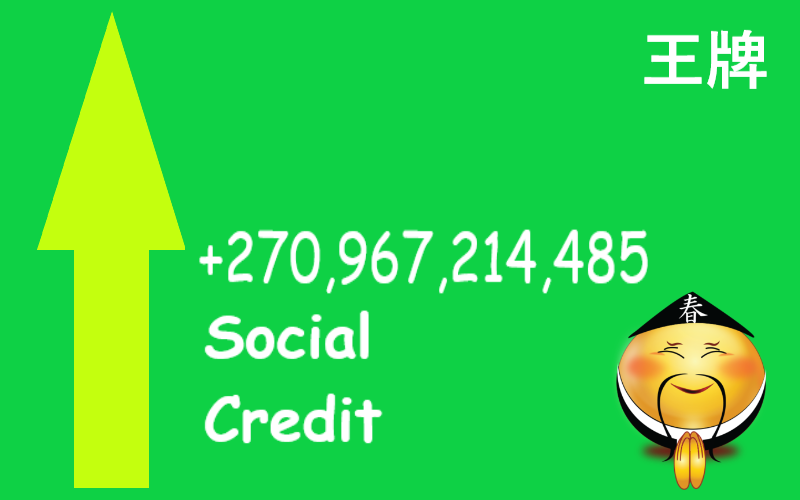
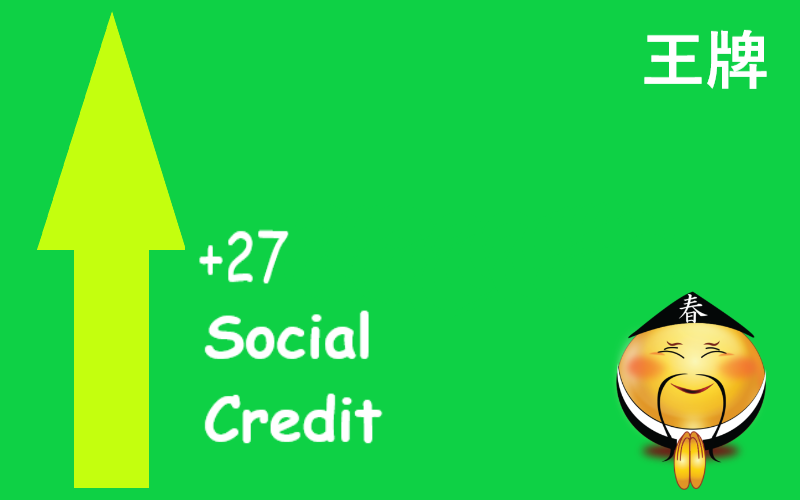
Added loss and execution date

Changed region(s): [[0.3438, 0.45, 0.8125, 0.6]]

diff --git a/app.js b/app.js
@@ -1,10 +1,10 @@
 let num1 = 0;
 let num2 = 0;
-let ok = 0;
-let nk = 0;
-let sc = 0;
+let ok = 0; //oll korrect
+let nk = 0; //not
+let sc = 0; //social credit score
 let correctAns = 0;
-function newRiddle() {
+function newRiddle() { //Creates new multiplication riddle
     num1 = Math.round(Math.random()*10);
     num2 = Math.round(Math.random()*10);
     document.getElementById("riddle").innerHTML = num1 + " x " + num2;
@@ -12,27 +12,44 @@ function newRiddle() {
 }
 newRiddle();
 function checkAnswer() {
-    document.getElementById("image").src = "";
+    document.getElementById("image").src = "zhongxina.png";
     var ans = document.querySelector(".input").value;
-    if (ans == correctAns) {
-        console.log("Correct answer");
+    var image = document.getElementById("image");
+    if (ans == correctAns) { //If answer is correct:
         ok += 1;
-        sc += 270.976214485;
-        console.log(num1 + " times " + num2 + " equals " + (num1*num2));
-        var image = document.getElementById("image");
+        sc += 27;
         image.src = "scplus.png"
+        console.log("Correct");
+        console.log(num1 + " times " + num2 + " equals " + (num1*num2));
+        newRiddle();
     }
     else {
         nk += 1;
-        sc -= 100;
-        console.log("Wrong answer");
-        var image = document.getElementById("image");
-        image.src = "scminus.jpg"
+        sc -= 30;
+        if (sc < 0) { //If answer is wrong & social credit < 0:
+        document.getElementById("riddle").innerHTML = "You lost, execution date: 老干嘛";
+            document.getElementById("label").style.display = "none";
+            document.getElementById("input").style.display = "none";
+            document.getElementById("button").style.display = "none";
+            document.getElementById("header").style.backgroundColor = "red";
+            document.getElementById("sexHåla").style.backgroundColor = "black";
+            document.getElementById("body").style.backgroundColor = "grey";
+            image.src = "exedate.jpg"
+        }
+        else { //If answer is just wrong:
+            image.src = "scminus.png"
+            console.log("Wrong answer");
+            newRiddle()
+        }
     }
-    newRiddle();
-    document.getElementById("kd").innerHTML = "K/D = " + (Math.round((ok/nk) * 100) / 100);
+    if (nk == 0) { //If-statement to prevent 'K/D = infinity'
+        document.getElementById("kd").innerHTML = "K/D = " + ok;
+    }
+    else {
+        document.getElementById("kd").innerHTML = "K/D = " + (Math.round((ok/nk) * 100) / 100);
+    }
     document.getElementById("ok").innerHTML = "Correct answers = " + ok;
     document.getElementById("nk").innerHTML = "Wrong answers = " + nk;
-    document.getElementById("sc").innerHTML = "Social credit = " + Math.round(sc*1000000000);
+    document.getElementById("sc").innerHTML = "Social credit = " + sc;
     document.getElementById("input").value = "";
 }

diff --git a/index.html b/index.html
@@ -8,26 +8,29 @@
     <link rel="stylesheet" href="style.css">
     <script src="app.js" defer></script>
 </head>
-<body>
-    <div class="header">
-        <h1>Multiplicatión test</h1>
+<body id="body">
+    <div class="header" id="header">
+        <h1 class="title"><a href="index.html">Multiplicatión test</a></h1>
     </div>
     <div class="analPump">
-        <div class="sexHåla">
+        <div class="sexHåla" id="sexHåla">
             <div class="bögSexOrgy">
                 <h2 class="riddleMeThis" id="riddle"></h2>
-                <label for="input">Your answer:</label>
+                <label id="label" for="input"><strong>Your answer:</strong></label>
                 <input class="input" type="text" id="input" name="input">
                 <button class="button" id="button" type="button" onclick="checkAnswer()">Enter</button>
-                <p id="kd"></p>
                 <p id="ok"></p>
                 <p id="nk"></p>
+                <p id="kd"></p>
                 <p id="sc"></p>
             </div>
             <div class="socialCredit">
-                <img id="image" src="" alt="scplus">
+                <img id="image" src="zhongxina.png" alt="socialcredit">
             </div>
         </div>
     </div>
+    <footer class="footer">
+        <img src="bottom-text.png" alt="bottom-text">
+    </footer>
 </body>
 </html>

diff --git a/style.css b/style.css
@@ -45,6 +45,10 @@ html, body {
     width: 60%;
 }
 
+footer img{
+    width: 90%;
+}
+
 input {
     width: 25%;
 }
@@ -53,19 +57,33 @@ button {
     width: 15%;
 }
 
-h1, h2 {
+h1 {
+    margin: 15%;
+    font-family: Arial, Helvetica, sans-serif;
+}
+
+h2 {
     margin: 10%;
     font-family: Arial, Helvetica, sans-serif;
-    font-style: normal;
+    text-align: center;
 }
 
 p {
     font-family: Arial, Helvetica, sans-serif;
 }
 
+a {
+    text-decoration: none;
+    color: whitesmoke;
+}
+
+a:hover {
+    color: red;
+    transition-duration: 0.4s;
+}
+
 label {
     font-family: Arial, Helvetica, sans-serif;
-    font-style: normal;
 }
 
 h2 {
@@ -75,4 +93,8 @@ h2 {
 img {
     width: 90%;
     margin: 5%;
+}
+
+#loss {
+    font-size: 22px;
 }
